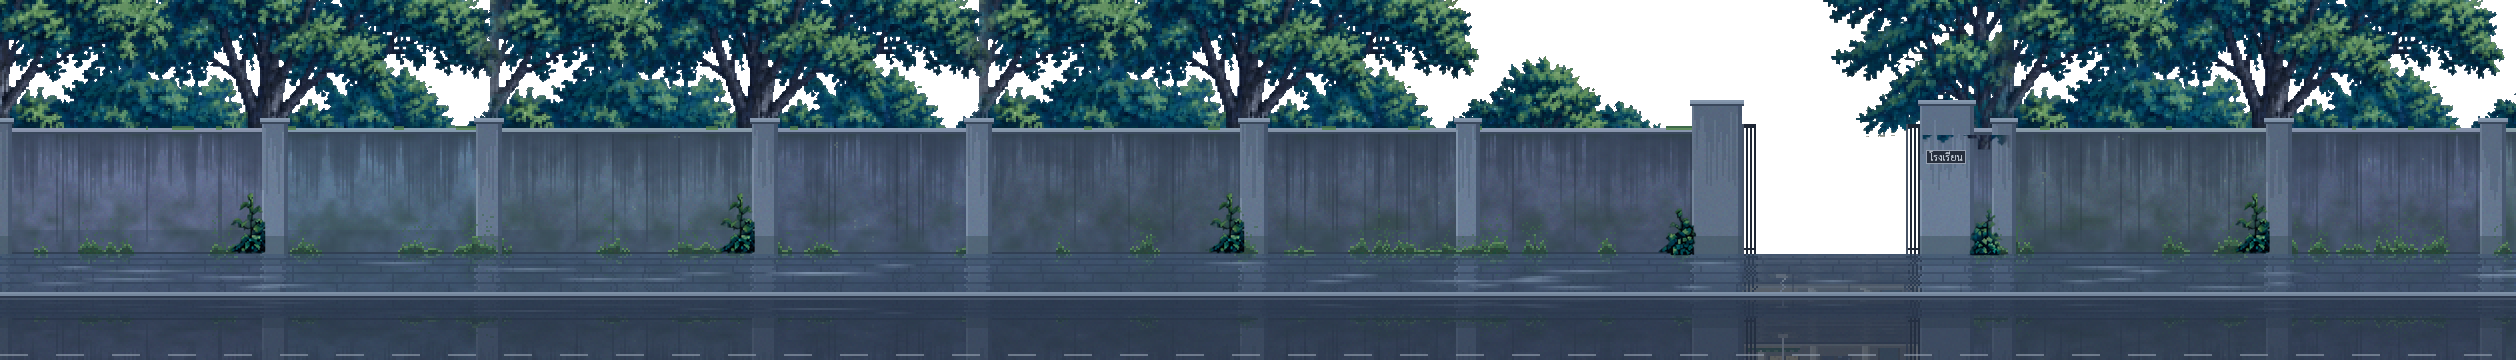
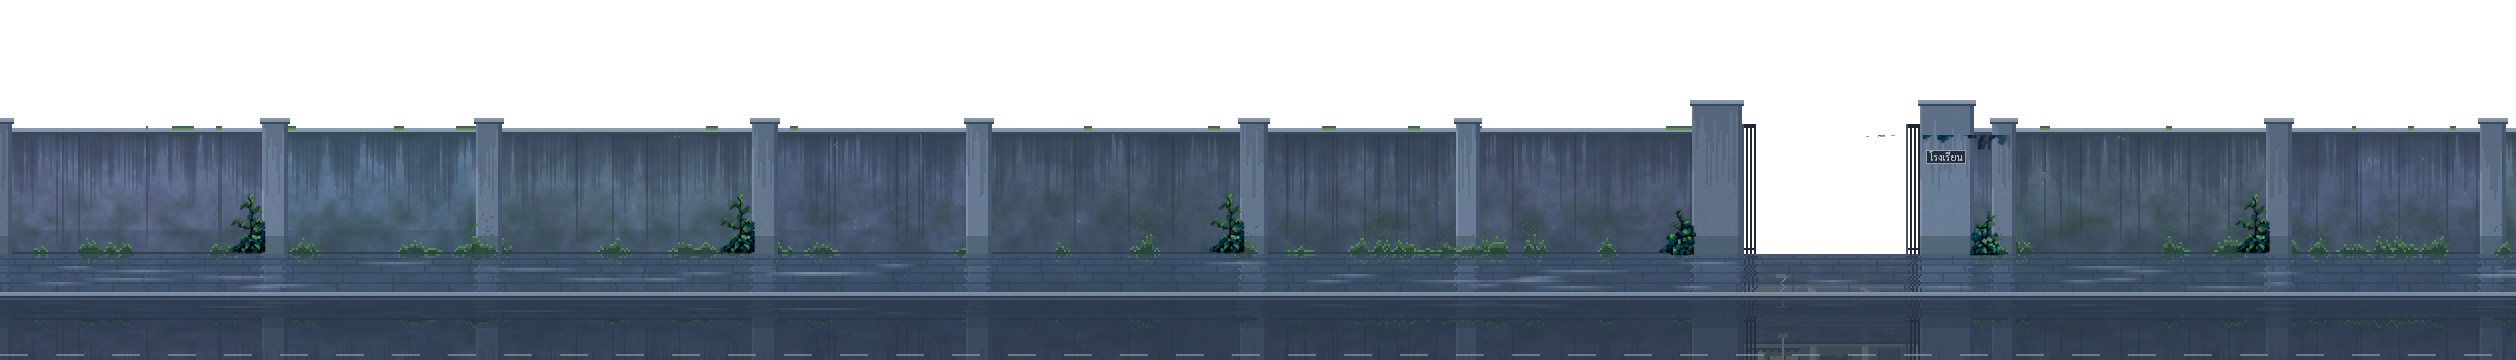
School walk: the trees over the wall sway a little
The author's trees are cut to their own layer behind the wall
(tools/cut_school_wall.py) and shifted sideways by whole pixels in a
slow breeze (shaders/tree_sway.gdshader): still at the wall top where
the trunks stand, up to 2-3 px at the top of the screen, each tree on
its own clock, with an occasional gust along the wall.

Claude-Session: https://claude.ai/code/session_01CetL5zkYvFPaRRM6Eyxn95

Changed region(s): [[0.0, 0.0, 0.682, 0.3667], [0.713, 0.0, 1.0, 0.3667]]

diff --git a/tools/cut_school_wall.py b/tools/cut_school_wall.py
@@ -1,15 +1,17 @@
-"""Cut the walk-to-school strip down to what stands in front of the school: trees, wall, sidewalk, road.
+"""Cut the walk-to-school strip into what stands in front of the school: the trees, and the wall layer.
 
 The walk scene (scripts/school_walk.gd) shows the school itself as the 3D model (scripts/school_model_3d.gd)
 behind this layer, so the drawn sky, building and campus (tools/draw_school_building.py) are cut out:
-a pixel stays where tools/draw_school_wall.py draws it (wall, pillars, gate, sidewalk, road) or where the
-author's trees layer covers it; the rest (the sky, the building, the campus through the gate) turns clear.
+a pixel stays in the wall layer where tools/draw_school_wall.py draws it (wall, pillars, gate, sidewalk,
+road, the weeds at its foot), in the trees layer where only the author's trees cover it (so the scene can
+sway them on their own); the rest (the sky, the building, the campus through the gate) turns clear.
 
 What draw_school_wall.py draws is found by running it on a plain key colour: every pixel it leaves
 untouched is the painting behind.
 
 Usage (TREES: the trees-only strip from tools/compose_school.py):
-  python3 tools/cut_school_wall.py assets/bg/school/school_front.png TREES.png assets/bg/school/school_wall.png
+  python3 tools/cut_school_wall.py assets/bg/school/school_front.png TREES.png \
+          assets/bg/school/school_wall.png assets/bg/school/school_trees.png
 """
 import os
 import sys
@@ -35,10 +37,12 @@ def main():
         draw_school_wall.main()
         sys.argv = argv
         wall = np.asarray(Image.open(drawn).convert("RGB")).astype(int)
-    kept = (np.abs(wall - KEY).max(2) > 2) | (trees[..., 3] >= 128)
-    out = np.dstack([np.asarray(strip), np.where(kept, 255, 0).astype(np.uint8)])
-    Image.fromarray(out, "RGBA").save(sys.argv[3])
-    print(f"{strip.width}x{strip.height} -> {sys.argv[3]}; clear {100 * (1 - kept.mean()):.0f}%")
+    drawn = np.abs(wall - KEY).max(2) > 2
+    leaves = (trees[..., 3] >= 128) & ~drawn
+    for mask, path in ((drawn, sys.argv[3]), (leaves, sys.argv[4])):
+        out = np.dstack([np.asarray(strip), np.where(mask, 255, 0).astype(np.uint8)])
+        Image.fromarray(out, "RGBA").save(path)
+        print(f"{strip.width}x{strip.height} -> {path}; {100 * mask.mean():.0f}% kept")
 
 
 if __name__ == "__main__":

diff --git a/README.md b/README.md
@@ -72,8 +72,8 @@
      ป้าย "อาคาร 1" กับตราโรงเรียน ม่านฝน ในประตูมีขั้นบันได พื้นเปียก กระถางต้นไม้ และเสาธงชาติ
      แล้ว `python3 tools/draw_school_wall.py assets/bg/school/school_front.png assets/bg/school/school_front.png trees.png` วาดกำแพง (สีต่างกันทีละช่วงเสา คราบน้ำ ตะไคร่ดำเขียว จุดไลเคน กอตะไคร่ที่โคน) เสา
      ประตู (ป้าย "โรงเรียน" ฟอนต์ Sarabun) ทางเท้าเปียกที่สะท้อนกำแพง ขอบฟุตบาท และถนนใหม่เป็นพิกเซล 2x2 ทับ
-     แล้ว `python3 tools/cut_school_wall.py assets/bg/school/school_front.png trees.png assets/bg/school/school_wall.png`
-     เก็บไว้แค่ต้นไม้ กำแพง ทางเท้า ถนน (ฟ้า ตึกที่วาด และในประตูโปร่งใส): ฉากใช้ภาพนี้ ส่วนตึกข้างหลังคือโมเดล 3D
+     แล้ว `python3 tools/cut_school_wall.py assets/bg/school/school_front.png trees.png assets/bg/school/school_wall.png assets/bg/school/school_trees.png`
+     แยกเป็นกำแพง ทางเท้า ถนน กับต้นไม้อีกชั้น (ฟ้า ตึกที่วาด และในประตูโปร่งใส): ต้นไม้โยกเบาๆ (`shaders/tree_sway.gdshader`) ส่วนตึกข้างหลังคือโมเดล 3D
      (`SchoolBuildingView` ชั้นใต้สุด) กล้อง 3D เลื่อนตามกล้องเกมแต่ช้ากว่า (ตึกไกลกว่า) ถึงประตูมองเห็นทางเข้าอาคาร หมอกฝนสีฟ้าของฉาก
 
    - ทดสอบ: เปิดเกมด้วย `#school` ท้ายลิงก์ เริ่มที่ช่วงนี้เลย (`#cross` เริ่มที่ข้ามทางม้าลายแล้วต่อมาที่นี่)
